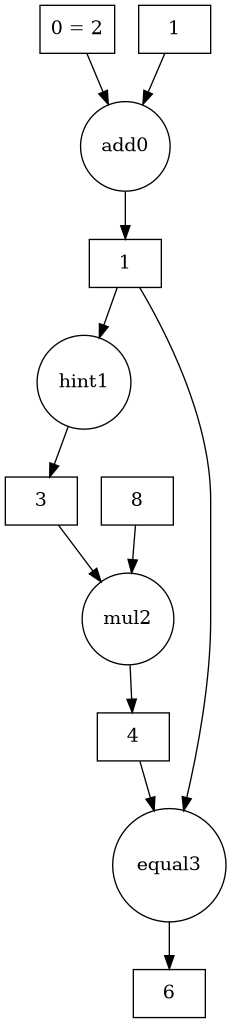
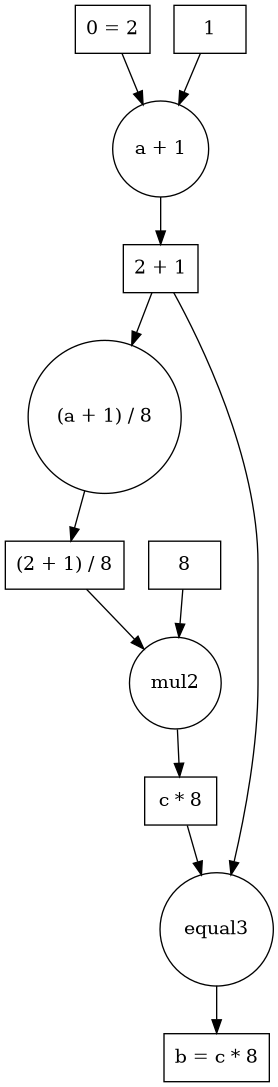
Update examples with clearer names

diff --git a/example.py b/example.py
@@ -8,7 +8,7 @@ def x_plus_one():
     builder = Builder()
     x = builder.init()
     one = builder.constant(1)
-    x_plus_one = builder.add(x, one)
+    x_plus_one = builder.add(x, one, name="1 + 1", op_name="x + 1")
 
     builder.fill_nodes({x: 1})
     if not builder.check_constraints():
@@ -20,9 +20,9 @@ def x_plus_one():
 def x_squared_plus_five_plus_x():
     builder = Builder()
     x = builder.init()
-    x_squared = builder.mul(x, x)
-    x_squared_plus_five = builder.add(x_squared, 5)
-    y = builder.add(x_squared_plus_five, x)
+    x_squared = builder.mul(x, x, name="2^2", op_name="x^2")
+    x_squared_plus_five = builder.add(x_squared, 5, name="2^2 + 5", op_name="x^2 + 5")
+    y = builder.add(x_squared_plus_five, x, name="y", op_name="x^2 + x + 5")
 
     builder.fill_nodes({x: 2, y: 11})
     if not builder.check_constraints():
@@ -37,10 +37,10 @@ def a_plus_one_divide_by_eight():
 
     builder = Builder()
     a = builder.init()
-    b = builder.add(a, 1)
-    c = builder.hint(divide_by_eight, [b])
-    c_times_8 = builder.mul(c, 8)
-    builder.assert_equal(b, c_times_8)
+    b = builder.add(a, 1, name="2 + 1", op_name="a + 1")
+    c = builder.hint(divide_by_eight, [b], name="(2 + 1) / 8", op_name="(a + 1) / 8")
+    c_times_8 = builder.mul(c, 8, name="c * 8")
+    builder.assert_equal(b, c_times_8, name="b = c * 8")
 
     builder.fill_nodes({a: 2})
     if not builder.check_constraints():
@@ -55,10 +55,10 @@ def sqrt_computation():
 
     builder = Builder()
     x = builder.init()
-    x_plus_seven = builder.add(x, 7)
+    x_plus_seven = builder.add(x, 7, name="2 + 7")
 
-    sqrt_x_plus_7 = builder.hint(my_sqrt, [x_plus_seven])
-    computed_sq = builder.mul(sqrt_x_plus_7, sqrt_x_plus_7)
+    sqrt_x_plus_7 = builder.hint(my_sqrt, [x_plus_seven], name="sqrt(x + 7)")
+    computed_sq = builder.mul(sqrt_x_plus_7, sqrt_x_plus_7, name="sqrt(x + 7) * sqrt(x + 7)")
     builder.assert_equal(computed_sq, x_plus_seven)
 
     builder.fill_nodes({x: 2})
